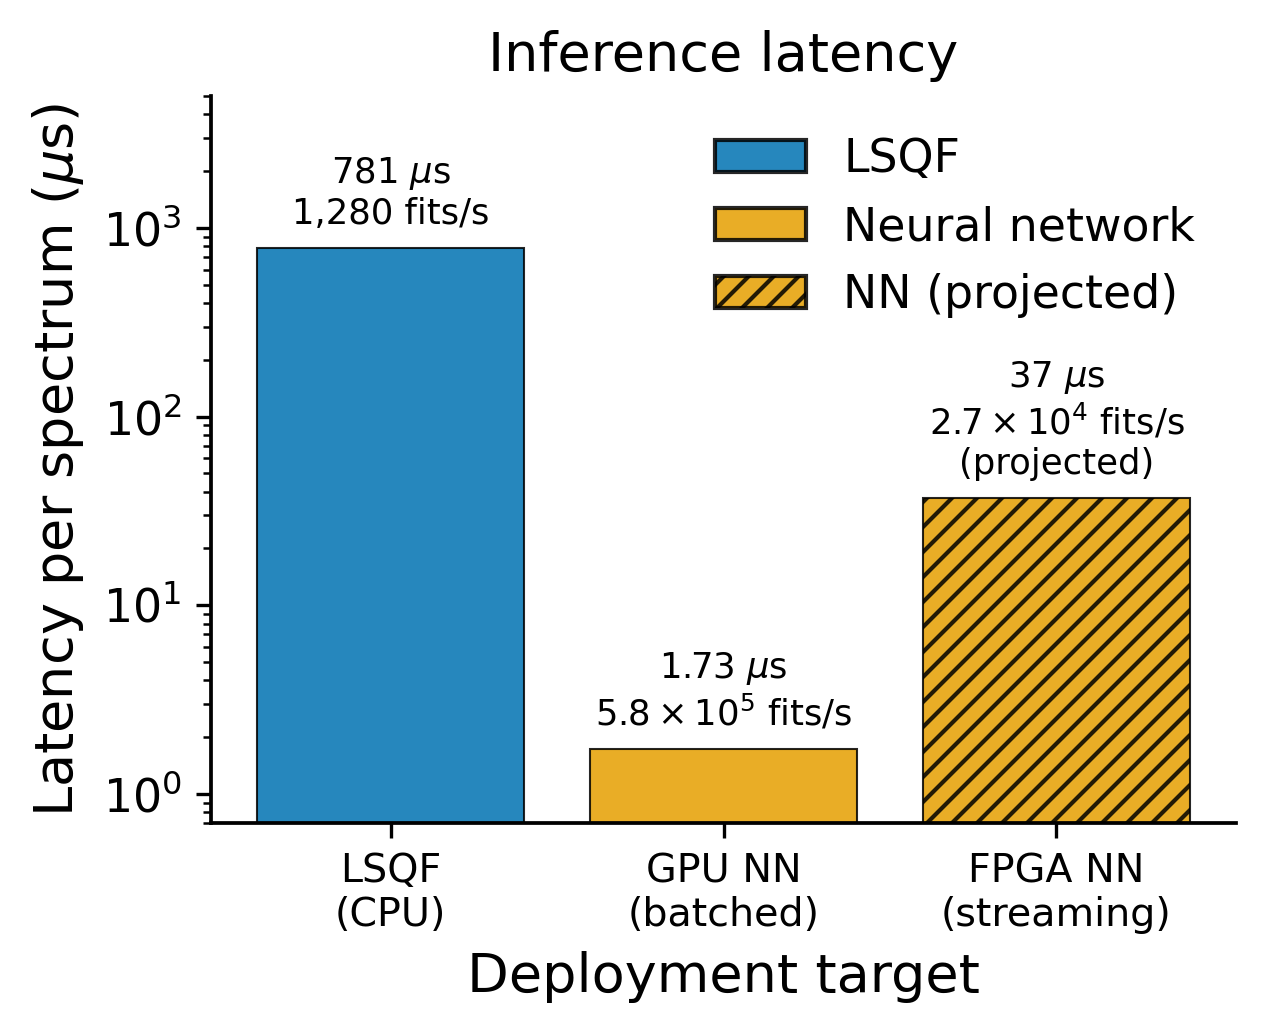
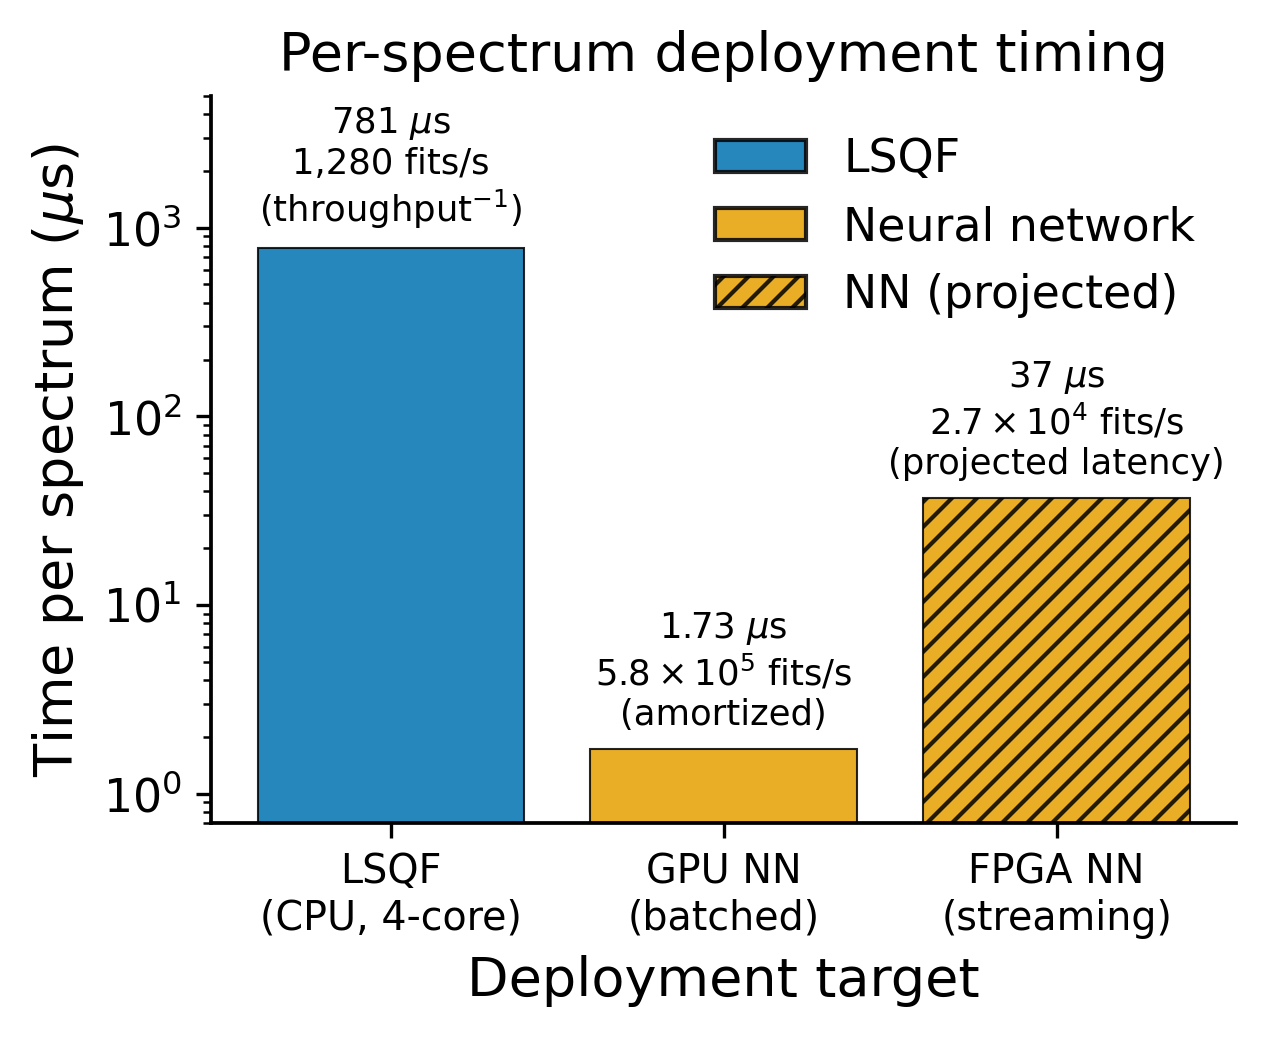
Fix make_fig4.py output docstring; refresh the S10 timing panel and its script
The docstring documented fig4_loss_vs_noise.png but the script writes
fig4_margin_vs_noise.png (Sourcery finding). The S10 panel and its
generator are updated to the relabeled version from the manuscript's
round-4 review pass: the CPU value is labeled reciprocal aggregate
four-core throughput rather than single-fit latency.

diff --git a/m3_learning/papers/2023_Rapid_Fitting/manuscript_figures/src/fig5/make_fig5_fpga.py b/m3_learning/papers/2023_Rapid_Fitting/manuscript_figures/src/fig5/make_fig5_fpga.py
@@ -43,7 +43,7 @@ OUT = os.path.abspath(os.path.join(os.path.dirname(__file__), "..", ".."))
 # Consistent paper palette: LSQF = blue, the network = orange (GPU and FPGA are
 # both "the network"; the FPGA bar is hatched to mark it as a projected result).
 targets = [
-    ("LSQF\n(CPU)", 781.0, 1280.0, "methods", METHOD_COLORS["LSQF"]),
+    ("LSQF\n(CPU, 4-core)", 781.0, 1280.0, "methods", METHOD_COLORS["LSQF"]),
     ("GPU NN\n(batched)", 1.73, 5.78e5, "notebook", METHOD_COLORS["NN"]),
     ("FPGA NN\n(streaming)", 37.0, 2.7e4, "projected", METHOD_COLORS["NN"]),
 ]
@@ -60,7 +60,7 @@ bars[2].set_hatch("////")
 
 ax.set_yscale("log")
 ax.set_xlabel("Deployment target")
-ax.set_ylabel("Latency per spectrum ($\\mu$s)")
+ax.set_ylabel("Time per spectrum ($\\mu$s)")
 ax.set_xticks(x)
 ax.set_xticklabels([t[0] for t in targets], fontsize=9.5)
 ax.set_ylim(0.7, 5000)
@@ -77,9 +77,9 @@ ax.legend(handles=legend_handles, loc="upper right")
 
 # Throughput annotations above each bar (FPGA marked as a projected estimate).
 labels = [
-    "1,280 fits/s",
-    r"$5.8\times10^{5}$ fits/s",
-    r"$2.7\times10^{4}$ fits/s" + "\n(projected)",
+    "1,280 fits/s\n(throughput$^{-1}$)",
+    r"$5.8\times10^{5}$ fits/s" + "\n(amortized)",
+    r"$2.7\times10^{4}$ fits/s" + "\n(projected latency)",
 ]
 for xi, t, lab in zip(x, targets, labels):
     ax.annotate(
@@ -88,7 +88,7 @@ for xi, t, lab in zip(x, targets, labels):
         ha="center", va="bottom", fontsize=8.5,
     )
 
-ax.set_title("Inference latency")
+ax.set_title("Per-spectrum deployment timing")
 fig.tight_layout()
 fig.savefig(os.path.join(OUT, "fig5_fpga_latency.png"), dpi=300)
 plt.close(fig)

diff --git a/m3_learning/papers/2023_Rapid_Fitting/manuscript_figures/src/fig4/make_fig4.py b/m3_learning/papers/2023_Rapid_Fitting/manuscript_figures/src/fig4/make_fig4.py
@@ -24,7 +24,7 @@ overlap there; the meaningful optimizer margin is read at noise 0.
 
 Outputs two panels written to figures/:
   fig4_clean_loss.png   -- panel (a): clean-data (noise 0) final loss by optimizer
-  fig4_loss_vs_noise.png-- panel (b): final loss vs noise level, both optimizers
+  fig4_margin_vs_noise.png-- panel (b): final loss vs noise level, both optimizers
 """
 import os
 import sys
